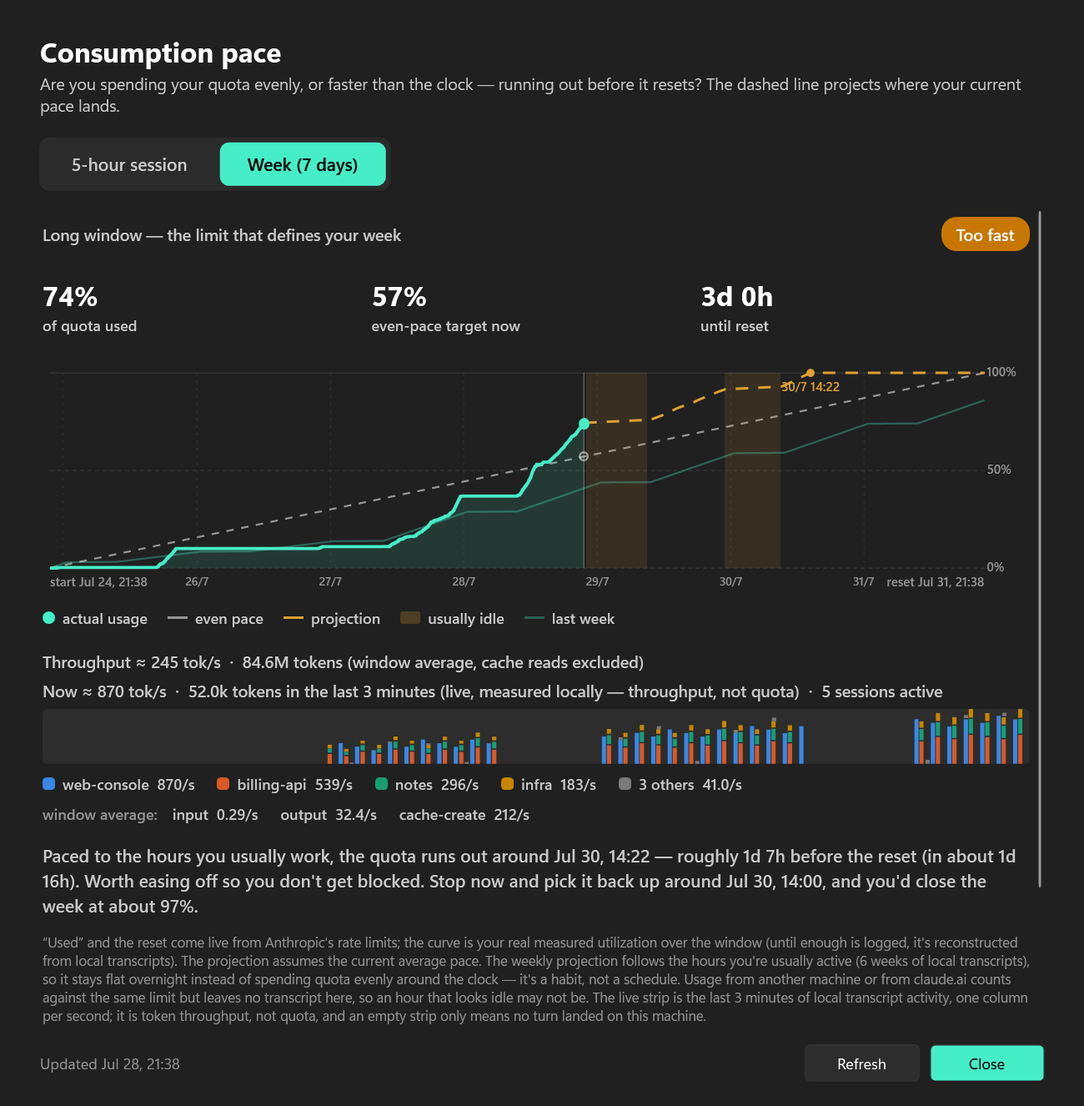
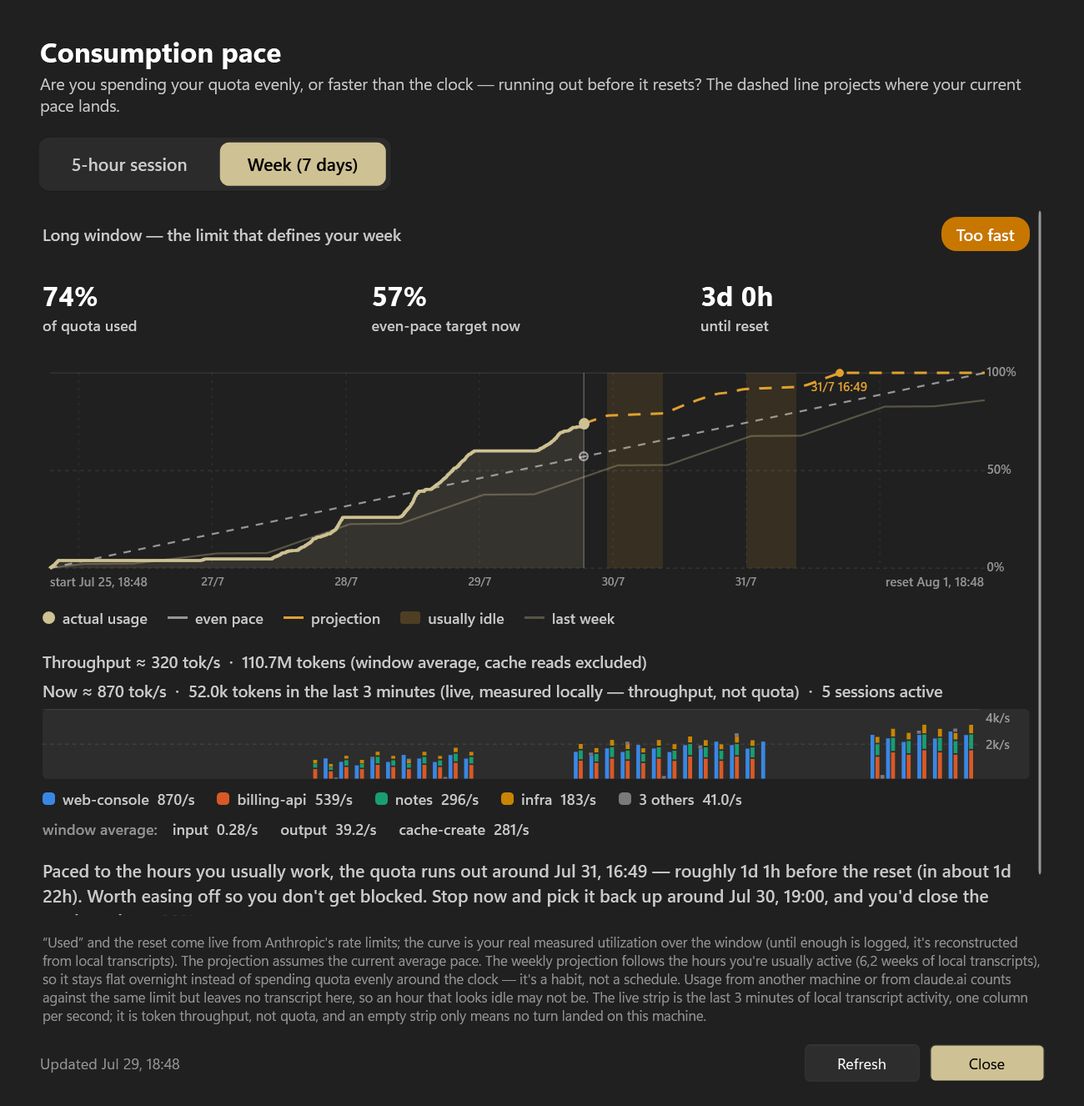
feat: the live strip draws, and scales to, the 3 minutes it shows (T110)
- This commit enhances the LiveStrip to accurately represent the last three minutes of data, ensuring that the height of each column corresponds to the actual usage during that time frame.
- The scaling now reflects the peak usage of the visible data, providing a more meaningful representation rather than relying on the tallest bucket in the entire feed.
- A new axis is introduced, with clear labels indicating the maximum usage in tokens per second, improving the readability and interpretability of the data displayed.
- Tooltips are added to inform users what the full height of a column represents, enhancing user interaction and understanding of the data.
- The strip's design is adjusted to accommodate these changes, including an increase in height to ensure proper spacing for axis labels and improved visual clarity.

diff --git a/StatisticsWindow.xaml b/StatisticsWindow.xaml
@@ -202,7 +202,9 @@
                                    Foreground="{DynamicResource TextFillColorSecondaryBrush}" />
                         <TextBlock x:Name="LiveHeadS" Margin="0,6,0,0" FontSize="13"
                                    Foreground="{DynamicResource TextFillColorSecondaryBrush}" />
-                        <Border x:Name="LiveStripS" Height="44" Margin="0,6,0,0" CornerRadius="4" ClipToBounds="True"
+                        <!-- Taller than the 44px it shipped at: the axis marks its ceiling and its half
+                             (T110), and two 10px labels need the room to stay out of each other. -->
+                        <Border x:Name="LiveStripS" Height="56" Margin="0,6,0,0" CornerRadius="4" ClipToBounds="True"
                                 Background="{DynamicResource SubtleFillColorSecondaryBrush}" />
                         <!-- Describes the strip, so it sits directly under it. Only one coloured
                              legend is ever on screen: when this one has swatches, the window-average
@@ -290,7 +292,7 @@
                                    Foreground="{DynamicResource TextFillColorSecondaryBrush}" />
                         <TextBlock x:Name="LiveHeadW" Margin="0,6,0,0" FontSize="13"
                                    Foreground="{DynamicResource TextFillColorSecondaryBrush}" />
-                        <Border x:Name="LiveStripW" Height="44" Margin="0,6,0,0" CornerRadius="4" ClipToBounds="True"
+                        <Border x:Name="LiveStripW" Height="56" Margin="0,6,0,0" CornerRadius="4" ClipToBounds="True"
                                 Background="{DynamicResource SubtleFillColorSecondaryBrush}" />
                         <StackPanel x:Name="LiveLegendW" Orientation="Horizontal" Margin="0,8,0,0" />
                         <StackPanel x:Name="TpsLegendW" Orientation="Horizontal" Margin="0,8,0,0" />

diff --git a/docs/index.html b/docs/index.html
@@ -449,7 +449,7 @@
       <div class="card feat reveal">
         <div class="ico">📉</div>
         <h3>Live 3-minute strip</h3>
-        <p>One column per second, split input / output / cache-create. It scrolls because the axis is <b>time</b> — the motion is the data, not a spinner. Idle goes flat, and it only repaints while the window is on screen.</p>
+        <p>One column per second, split input / output / cache-create, scaled to the busiest second on screen with that ceiling ruled and labelled in <b>tok/s</b>. It scrolls because the axis is <b>time</b> — the motion is the data, not a spinner. Idle goes flat, and it only repaints while the window is on screen.</p>
       </div>
       <div class="card feat reveal">
         <div class="ico">🗂</div>

diff --git a/LiveStrip.cs b/LiveStrip.cs
@@ -32,6 +32,15 @@ namespace ClaudeTray;
 /// per-second buckets shift), and a single <see cref="TranslateTransform"/> is animated from one
 /// column-width to zero over that second. The rebuild's one-column jump and the slide cancel exactly,
 /// so the strip scrolls continuously while the app draws at 1 Hz.</para>
+///
+/// <para><b>The height means something (T110).</b> A column used to be tall only <em>relative to
+/// whatever the tallest bucket in the feed happened to be</em> — and the feed is longer than the strip
+/// (<see cref="LiveRate.HistorySeconds"/> vs <see cref="Seconds"/>), so the scale could be set by a
+/// burst scrolled off the plot, flattening everything on screen to a few pixels. Two things fix that:
+/// the strip draws (and scales to) the <b>newest</b> <see cref="Seconds"/> buckets, so the tallest
+/// thing visible is what full height means; and full height is a round number, ruled across the plot
+/// and labelled in tok/s in a right-hand gutter, the way Task Manager labels its graphs. The ceiling
+/// still rises instantly and decays slowly, so it re-scales visibly rather than flapping.</para>
 /// </summary>
 internal sealed class LiveStrip
 {
@@ -41,6 +50,24 @@ internal sealed class LiveStrip
     /// <summary>Gap between columns, in device-independent pixels. Zero below a column width where
     /// the gap would eat the bar.</summary>
     private const double Gap = 1;
+
+    /// <summary>Width reserved at the right of the host for the axis labels. Inside the strip rather
+    /// than beside it: the labels sit on the same plate the bars stand on, which costs no layout row
+    /// (§V.9's one constraint) and — unlike a label floated over the plot — never covers a column.</summary>
+    private const double Gutter = 40;
+
+    /// <summary>Below this host width the axis is dropped: a gutter that ate a fifth of the plot would
+    /// cost more data than its labels explain.</summary>
+    private const double AxisMinWidth = 220;
+
+    /// <summary>Where the axis is ruled, as a fraction of the ceiling — the ceiling itself and its
+    /// half. Two lines are enough to read a bar off and few enough to stay background.</summary>
+    private static readonly double[] Marks = { 1.0, 0.5 };
+
+    /// <summary>Steps a ceiling is allowed to land on, per decade. Fine enough that rounding up costs
+    /// at most a third of the bar height, coarse enough that every label is a number a person reads
+    /// without decoding it.</summary>
+    private static readonly double[] NiceSteps = { 1, 1.5, 2, 2.5, 3, 4, 5, 6, 8, 10 };
 
     /// <summary>Categorical hues for the per-project stack (T100), in fixed order — slot 4 is the
     /// ceiling and a fifth series folds into <see cref="Others"/> rather than inventing a hue.
@@ -60,22 +87,64 @@ internal sealed class LiveStrip
         => dark ? Color.FromRgb(0x7A, 0x7A, 0x7A) : Color.FromRgb(0x8A, 0x8A, 0x8A);
 
     private readonly Border _host;
+    private readonly Grid _root = new();
+    private readonly Grid _plot = new() { ClipToBounds = true };   // the columns' own clip: the slide
+    private readonly Canvas _rules = new();                        // moves geometry past both edges
     private readonly Canvas _canvas = new();
+    private readonly Canvas _gutter = new();
     private readonly TranslateTransform _slide = new();
+    private readonly Func<double, string> _tick;
+    private readonly Func<double, string> _tip;
+    private readonly Line[] _lines;
+    private readonly TextBlock[] _labels;
     private Path[] _layers;
 
     // Vertical scale, in tokens for a full-height column. Rises immediately to fit a new peak and
     // decays slowly, so the strip re-scales visibly rather than jumping every second — and so a
     // quiet minute after a burst doesn't blow up the remaining noise to full height.
     private double _scale;
+    // The same scale rounded up to a readable step: what full height *says* it means. Kept separate
+    // because the decay has to stay smooth while the label may only ever be a round number.
+    private double _ceiling;
     private bool _flat = true;
 
-    public LiveStrip(Border host, bool dark)
+    /// <param name="tick">Formats an axis value (tokens in one second) for the gutter — the caller owns
+    /// the app's number formatting and its localized "/s".</param>
+    /// <param name="tip">Formats the hover text explaining what full height means, from the ceiling.</param>
+    public LiveStrip(Border host, bool dark, Func<double, string> tick, Func<double, string> tip)
     {
         _host = host;
+        _tick = tick;
+        _tip = tip;
+
+        _root.ColumnDefinitions.Add(new ColumnDefinition { Width = new GridLength(1, GridUnitType.Star) });
+        _root.ColumnDefinitions.Add(new ColumnDefinition { Width = new GridLength(Gutter) });
+        Grid.SetColumn(_plot, 0);
+        Grid.SetColumn(_gutter, 1);
+        _plot.Children.Add(_rules);      // behind the bars: a rule is a reference, not a series
+        _plot.Children.Add(_canvas);
+        _root.Children.Add(_plot);
+        _root.Children.Add(_gutter);
         _canvas.RenderTransform = _slide;
-        _canvas.IsHitTestVisible = false;
-        _host.Child = _canvas;
+        // The host keeps the hover, so its tooltip covers the whole strip rather than only the bars.
+        _root.IsHitTestVisible = false;
+        _host.Child = _root;
+
+        _lines = new Line[Marks.Length];
+        _labels = new TextBlock[Marks.Length];
+        for (int i = 0; i < Marks.Length; i++)
+        {
+            // Resource *references*, not resolved brushes: the strip is built once and outlives a
+            // light/dark switch, which a brush read at construction would not follow.
+            var line = new Line { StrokeThickness = 1, SnapsToDevicePixels = true };
+            if (Marks[i] < 1) line.StrokeDashArray = new DoubleCollection { 3, 3 };
+            line.SetResourceReference(Shape.StrokeProperty, "DividerStrokeColorDefaultBrush");
+            var label = new TextBlock { FontSize = 10 };
+            label.SetResourceReference(TextBlock.ForegroundProperty, "TextFillColorTertiaryBrush");
+            _rules.Children.Add(_lines[i] = line);
+            _gutter.Children.Add(_labels[i] = label);
+        }
+
         _layers = Array.Empty<Path>();
         SetSeries(Colors(dark));
     }
@@ -121,14 +190,24 @@ internal sealed class LiveStrip
         SetSeries(colors);
 
         double w = _host.ActualWidth, h = _host.ActualHeight;
-        if (w <= 0 || h <= 0 || series.Length == 0) return;
+        if (w <= 0 || h <= 0 || series.Length == 0 || series[0].Length == 0) return;
 
-        int n = series[0].Length;
+        double gutter = w >= AxisMinWidth ? Gutter : 0;
+        if (_root.ColumnDefinitions[1].Width.Value != gutter)
+            _root.ColumnDefinitions[1].Width = new GridLength(gutter);
+        double pw = w - gutter;                      // the plot: everything left of the labels
+
+        // The feed carries more history than the strip shows, and the *newest* end is the one this row
+        // is about — so both the geometry and the scale below read backwards from the last bucket. (An
+        // index-0 walk drew the oldest three minutes and clipped the rest away, then scaled what was
+        // left to a peak that had already scrolled off.)
+        int len = series[0].Length;
+        int visible = Math.Min(Seconds, len);
         long peak = 0;
-        for (int i = 0; i < n; i++)
+        for (int k = 0; k < visible; k++)
         {
             long v = 0;
-            foreach (long[] s in series) v += s[i];
+            foreach (long[] s in series) v += s[len - 1 - k];
             if (v > peak) peak = v;
         }
 
@@ -140,32 +219,42 @@ internal sealed class LiveStrip
             foreach (Path p in _layers) p.Data = null;
             _slide.BeginAnimation(TranslateTransform.XProperty, null);
             _slide.X = 0;
-            _scale = 0;
+            _scale = _ceiling = 0;
+            _host.ToolTip = null;
+            LayoutAxis(pw, h, gutter);               // no data, no axis: a scale nothing is drawn against
             _flat = true;
             return;
         }
         _flat = false;
 
         _scale = peak > _scale ? peak : Math.Max(peak, _scale * 0.94);
+        double ceiling = NiceCeiling(_scale);
+        if (ceiling != _ceiling)
+        {
+            _ceiling = ceiling;
+            _host.ToolTip = _tip(ceiling);           // only on a change: a live tooltip must not flicker
+        }
 
-        // One extra column so the incoming one starts fully off the right edge.
-        double colW = w / Seconds;
+        double colW = pw / Seconds;
         double barW = Math.Max(0.5, colW - (colW > 2.5 ? Gap : 0));
+        // One extra column, laid out past the left edge, so the slide always has something to bring in.
+        int drawn = Math.Min(Seconds + 1, len);
 
         var geo = new StreamGeometry[_layers.Length];
         var ctx = new StreamGeometryContext[_layers.Length];
         for (int i = 0; i < geo.Length; i++) { geo[i] = new StreamGeometry(); ctx[i] = geo[i].Open(); }
 
-        for (int i = 0; i < n; i++)
+        for (int k = 0; k < drawn; k++)
         {
-            double x = i * colW;
+            int i = len - 1 - k;                     // newest column at the right edge
+            double x = pw - (k + 1) * colW;
             double y = h;                            // stack upward from the baseline
             bool first = true;
             for (int L = 0; L < series.Length; L++)
             {
                 long v = series[L][i];
                 if (v <= 0) continue;
-                double seg = v / _scale * h;
+                double seg = v / _ceiling * h;
                 // A non-zero second must be visible: a single small turn is information, and rounding
                 // it to nothing would say "idle" when something did happen.
                 if (seg < 1) seg = 1;
@@ -186,6 +275,8 @@ internal sealed class LiveStrip
             _layers[i].Data = geo[i];
         }
 
+        LayoutAxis(pw, h, gutter);
+
         if (animate)
         {
             // Linear, exactly one second: the slide has to match the clock it represents, or the
@@ -198,6 +289,43 @@ internal sealed class LiveStrip
             _slide.BeginAnimation(TranslateTransform.XProperty, null);
             _slide.X = 0;
         }
+    }
+
+    // The axis: one faint rule per mark across the plot, its value in the gutter. It lives outside the
+    // sliding layer on purpose — a number attached to something that moves reads as data, not as scale.
+    private void LayoutAxis(double pw, double h, double gutter)
+    {
+        for (int i = 0; i < Marks.Length; i++)
+        {
+            // A rule is only drawn where its label has room: crowding two 10px labels into 20px of
+            // strip would make the axis the noisiest thing in a row that is mostly 3px bars.
+            bool show = gutter > 0 && _ceiling > 0 && pw > 0 &&
+                        (i == 0 || h * (Marks[i - 1] - Marks[i]) >= 14);
+            _lines[i].Visibility = _labels[i].Visibility = show ? Visibility.Visible : Visibility.Collapsed;
+            if (!show) continue;
+
+            double y = Math.Round(h - Marks[i] * h) + 0.5;
+            _lines[i].X1 = 0;
+            _lines[i].X2 = pw;
+            _lines[i].Y1 = _lines[i].Y2 = y;
+
+            _labels[i].Text = _tick(_ceiling * Marks[i]);
+            Canvas.SetLeft(_labels[i], 5);
+            Canvas.SetTop(_labels[i], Math.Clamp(y - 7, 0, Math.Max(0, h - 14)));
+        }
+    }
+
+    /// <summary>The next readable step at or above <paramref name="peak"/> — what full height means.
+    /// Rounding up costs bar height (at most a third), and buys a ceiling that can be *read*: a strip
+    /// scaled to exactly its peak has a label like "23,481/s", which is a measurement of one bar rather
+    /// than a scale for all of them.</summary>
+    private static double NiceCeiling(double peak)
+    {
+        if (peak <= 0) return 0;
+        double mag = Math.Pow(10, Math.Floor(Math.Log10(peak)));
+        foreach (double s in NiceSteps)
+            if (peak <= s * mag * 1.000001) return s * mag;
+        return 10 * mag;
     }
 
     /// <summary>Stop any running animation and forget the scale — used when the window is hidden, so

diff --git a/StatisticsWindow.xaml.cs b/StatisticsWindow.xaml.cs
@@ -430,8 +430,8 @@ internal partial class StatisticsWindow : Window
     {
         if (_stripS is not null) return;
         bool dark = IsDarkTheme();
-        _stripS = new LiveStrip(LiveStripS, dark);
-        _stripW = new LiveStrip(LiveStripW, dark);
+        _stripS = new LiveStrip(LiveStripS, dark, AxisTick, ScaleTip);
+        _stripW = new LiveStrip(LiveStripW, dark, AxisTick, ScaleTip);
 
         // The strip is drawn in device pixels against its host's width, so a resize (and the very
         // first layout pass, where the width is still zero) has to redraw it. Static, not animated:
@@ -1056,6 +1056,18 @@ internal partial class StatisticsWindow : Window
         tps >= 100 ? tps.ToString("#,##0", Fmt)
         : tps >= 10 ? tps.ToString("0.0", Fmt)
         : tps.ToString("0.00", Fmt);
+
+    // The live strip's axis (T110): a mark's value, and the hover that says what full height means.
+    // "20k/s" rather than Big()'s "20.0k" — a scale label is read at a glance, and a trailing .0 on a
+    // round ceiling is noise. Tokens in one second *are* tokens/second, so the unit is honest.
+    private static string AxisTick(double tokens) => L.T("stats.live.axis", Tick(tokens));
+
+    private static string ScaleTip(double ceiling) => L.T("stats.live.scaleTip", Tick(ceiling));
+
+    private static string Tick(double n) =>
+        n >= 1_000_000 ? (n / 1e6).ToString("0.##", Fmt) + "M"
+        : n >= 1_000 ? (n / 1e3).ToString("0.##", Fmt) + "k"
+        : n.ToString("0.##", Fmt);
 
     // Compact token count: 3.1M / 42k / 517.
     private static string Big(long n) =>

diff --git a/CHANGELOG.md b/CHANGELOG.md
@@ -159,6 +159,8 @@
 - **T99** — The throughput row moves (`LiveStrip.cs`). The static stacked mix bar under each chart becomes a **strip of the last three minutes** — one column per second, entering right and leaving left, keeping the input/output/cache-create split — with *"Now ≈ 870 tok/s · 52.0k tokens in the last 3 minutes"* above it. The window average, the charts, the verdict chip and the legend are untouched: this is a row, not a re-timing of the pace report, and the two numbers are deliberately adjacent because they answer different questions. Motion at 1 Hz without per-frame work: the geometry is rebuilt once a second (three `StreamGeometry` layers, one per token type) and a single `TranslateTransform` is animated from one column-width to zero over that second, so the rebuild's one-column jump and the slide cancel exactly and the strip scrolls continuously. Every consequence of "the motion is the data" is enforced rather than assumed — **nothing running ⇒ nothing moves** (an empty strip is cleared once and then left alone; no spinner, no breathing pulse, which would imply activity during idleness), **hidden ⇒ stopped** (both `IsVisibleChanged` and `StateChanged`, since a minimized WPF window still reports `IsVisible`), and the tail is owned by the window so a closed Statistics window watches nothing. A non-zero second is floored to one pixel — a single small turn is information and must not round to "idle". The method note gains a sentence: an empty strip means no turn landed *on this machine*, never that nothing is running. Five new keys across all five `lang/*.json`; the window grew 60px for the taller row. Verified by screenshot in English and pt-BR, against the real tail and against `--stats live` / `--capture-stats … live`, which feed a deterministic synthetic three minutes so the published image is reproducible; the published `docs/statistics-*.png` were regenerated.
 - **T100** — Which project is burning it. The strip stacks **per project** and the live row says how many sessions are active, which across five repos is the question actually being asked — not *how fast* but *where*. Attribution is free: the transcript path already names the project. Deliberately **adaptive** — with two or more projects generating, the stack is per project; with one there is nothing to attribute and the by-type mix stays, because folding a single-project strip to one flat colour would lose the input/output/cache-create split for nothing. A session counts as active on a **turn in the last 2 minutes**, not on file presence, or every terminal left open all week would inflate the count. Palette run through the data-viz validator rather than eyeballed: four categorical hues in fixed order (blue/orange/aqua/yellow) plus an achromatic residual, validated as a stack against both themes' surfaces — worst adjacent CVD ΔE 9.1 light / 8.4 dark, worst normal-vision ΔE 20.8 / 16.9, all ≥3:1 contrast in dark. Past four projects the rest fold into one grey "+N others"; a fifth invented hue is never the answer. Every series is direct-labelled with its own rate, and while the strip is by-project the window-average legend **drops its swatches** for a plain "window average:" caption — otherwise the same three hues would mean token types in one legend and projects in the other. Two bugs found by looking at the output rather than at the code: naming a project by `GetFileName(cwd)` is wrong because `cwd` is the working directory *of that turn*, so one `cd docs/_preview` inside a session renamed the project to "_preview" — and the slug can't be split back into a name either (it encodes separators and literal dashes identically, turning `…-shio-2026-3` into "3"), so the name is now recovered by walking the cwd up to the ancestor whose encoding equals the slug. The per-project rates sum to the headline, because the age-weighted kernel is linear — verified live at 141+132=273 tok/s. Nine new keys across all five `lang/*.json`; `--live` now prints the split and the active-session count.
 
+- **T110** — The strip's height means something. Two defects behind one symptom, reported from the field as *"the bars are tiny and sometimes there are numbers"*: the row walked its series from **index 0** of a feed that keeps 300 seconds while the strip is 180 columns wide (`LiveRate.HistorySeconds` > `LiveStrip.Seconds`), so it drew the *oldest* three minutes and clipped the newest two minutes off the right edge — and it then scaled what was left to the tallest bucket in the **whole** feed, which could be a burst that had already scrolled away, flattening everything on screen onto the 1px floor. It now walks backwards from the newest bucket (one extra column laid out past the left edge, so the slide still has something to bring in) and takes its peak from exactly what it draws. With that fixed the scale is also *stated*: full height is the visible peak rounded up to a readable step (1 / 1.5 / 2 / 2.5 / 3 / 4 / 5 / 6 / 8 per decade, so rounding up costs at most a third of the bar height), ruled across the plot at the ceiling and at its half and labelled in tok/s in a 40px right-hand gutter — Task Manager's treatment, and inside the strip so it costs no layout row (§V.9's one constraint). The labels sit on the plate rather than floated over the plot, so they never cover a column, and the rules live outside the sliding layer, because a number attached to something that moves reads as data rather than as scale. The gutter is dropped below 220px of width, the half-mark is dropped when its label would crowd the ceiling's, and the whole axis disappears while the strip is flat — a scale with nothing drawn against it claims a precision that isn't there. Hover says what full height means; the strip grew 44→56px so two 10px labels have room. Resource *references* rather than resolved brushes for the rules and labels, since the strip is built once and outlives a light/dark switch. Two keys across all five `lang/*.json`. Verified against the deterministic `--stats live` fixture and against the real tail — which is where the scale fix earns itself: one 240k-token second (a large cache write) now reads as `250k/s` instead of as an unexplained wall of 1px bars. Published `docs/statistics-*.png` regenerated.
+
 ## Block L — Scan resilience
 
 - **T109** — `SafeWalk.cs`: one unreadable directory can no longer blank the app. Reported from the field as *"couldn't build the report: the path cannot be traversed because it contains an untrusted mount point"* — a `memory` junction inside `~/.claude/projects` that Windows' Redirection Guard refuses to traverse, which aborted the framework's `AllDirectories` enumeration and with it the **entire** Statistics window: no charts, no numbers, just the error. The same single point of failure sat under every local scan (`UsageReport.ScanTokens`, `UsageInsights`, `ActivityProfile`, `ContextUsage`, `TranscriptTail` and the recursive `ContextScanner` helpers), so a denied ACL, a session folder deleted mid-sweep or a path past MAX_PATH anywhere under `projects/` cost the user everything downstream of it. The walk is now per directory, so a failure is scoped to the subtree that caused it. Three things the naive version gets wrong and this one doesn't: entries are **materialized** (`GetFiles`, not `EnumerateFiles`) — the `try`/`catch` wrappers the codebase already had around lazy enumerables caught *nothing*, because the IO happens later inside the caller's `foreach`; a reparse point is **replaced by the path it names before anything opens it**, which both sidesteps the blocked traversal (opening the real directory is allowed — only going *through* the link is refused) and walks a shared target once instead of once per junction (this machine has three pointing at the same `_turing-shared\memory`); and children come back as `DirectoryInfo`, whose attributes the enumeration already filled in, so detecting those reparse points costs no extra syscall — ~46ms vs ~34ms over 600 transcripts, and a fresh context scan 95ms vs 73ms. Verified against a hostile fixture (a junction plus a directory with read denied by ACL) where the framework walker throws and the walk returns every readable file exactly once, and against the real tree for equivalence: the `--context` report is identical line for line, 969 files across 35 projects, and the Statistics window renders in pt-BR. Depth cap plus a visited set for the junction-pointing-at-its-own-ancestor case. No user-visible strings — the fix is that the existing ones stop appearing.

diff --git a/ROADMAP.md b/ROADMAP.md
@@ -86,10 +86,14 @@
 > it (T102), two costs it introduced (T103, T108), two readings it stops just short of (T104, T107),
 > and one duplicated resolver (T105). Ordered by what a user would notice: T102 first — it is wrong
 > today, everywhere the transcripts are counted — then T104, then the rest.
+>
+> **T110 shipped** out of that pass's first half: the strip now draws — and scales to — the three
+> minutes it claims to show, with its ceiling ruled and labelled in tok/s. It took the *magnitude* half
+> of T104; the per-column hover is still open.
 
 - 📋 **T102** (deps: —) **`ScanTokens` counts one API response several times** — Claude Code writes one `assistant` line per *content block*, each repeating that response's `usage`; T97 found this and de-duplicates on `requestId`, but the older sweep still sums per line. The weekly curve hides it (it is rescaled to the live utilization) yet the *shape* is skewed toward heavy tool use, and `MeasuredActiveHours` and `ActivityProfile` read the same samples. The parser already emits the id. → §V.7
 - 📋 **T103** (deps: T97) **The tail re-enumerates the whole tree every 3s** — 602 transcripts in 17ms today, metadata-only, but it is O(all history) and grows forever while the window is open. Enumerate only directories whose mtime moved, or fall back to watcher-reported paths once the tree passes a size. → §V.8
-- 📋 **T104** (deps: T99) **The strip is a shape with no magnitude** — 44px, no axis, no hover: nothing distinguishes a 2k column from a 200k one, and per-column tooltips are the one interaction a bar form should not ship without. Second, project, tokens — no new row. → §V.9
+- 📋 **T104** (deps: T99, T110) **The strip has no per-column reading** — T110 gave the row a magnitude (a labelled ceiling and its half, scaled to what is actually on screen), which leaves the one interaction a bar form should not ship without: hover a column for its second, its project and its tokens. No new row. → §V.9
 - 💭 **T105** (deps: T100) **One resolver for slug → project path** — T100 recovers a project's real folder by walking the `cwd` up to the ancestor whose encoding matches the slug; `ContextScanner.CwdFromTranscripts` answers the same question separately and less exactly. Two readers of the same lossy encoding is one too many. → §V.10
 - 💭 **T106** (deps: T98) **A turn's tokens land in the second it *finished*** — the transcript timestamp is the write time, so a 40s generation reads as one spike at the end rather than a flow across the 40s it occupied, which is what makes the strip lumpier than the work. The previous turn's timestamp bounds the duration; only worth doing if it can be done without inventing data. → §V.11
 - 💭 **T107** (deps: T98) **Say what the cache re-read is costing** — measured on real traffic: ~30,000 tok/s of cache read against ~150 tok/s of real work, a 200× ratio the app now computes and shows nobody. That number is what a large eager context costs *per turn*, which makes it the missing link between this block and the Context Load Inspector. → §V.12

diff --git a/last-task.md b/last-task.md
@@ -1,6 +1,6 @@
-# Last task number — `T109` · next block letter — `M`
+# Last task number — `T110` · next block letter — `M`
 
-> **Single source of truth for the next free task number.** The next new task is `T110`; after
+> **Single source of truth for the next free task number.** The next new task is `T111`; after
 > assigning it, bump the number above and append a log line below.
 >
 > **Next block letter — `M`** (Block **L** = Scan resilience — no single unreadable directory under
@@ -33,6 +33,8 @@
   about the weekly **projection** (where the quota lands), K is about **instantaneous** throughput
   (what is running now, and in which project) on a clock that is local rather than the API's. It opens
   against the same Statistics window, so it carries no dependency on J's open tasks.
+- **T110** (2026-07-29) stays in Block **K** rather than opening M: it is the live strip's own scale,
+  and it took the magnitude half of K's own T104, which remains open for the per-column hover.
 - Docs live at the **repo root** (`ROADMAP.md`, `CHANGELOG.md`, `IMPROVEMENTS.md`, `STRATEGY.md`,
   `last-task.md`), not under `docs/` — `docs/` is the published GitHub Pages site.
 
@@ -74,3 +76,4 @@ here. This file is a terse index, not a memory.
 - **T100 SHIPPED** (Block K — per-project attribution in the live strip) — 2026-07-28.
 - **T101 DROPPED** (Block K — tray-icon live hint; now a binding non-goal) — 2026-07-28.
 - **T109 SHIPPED** (Block L — SafeWalk: an unreadable directory can't fail a whole scan) — 2026-07-29.
+- **T110 SHIPPED** (Block K — the strip draws, and scales to, the 3 minutes it shows) — 2026-07-29.

diff --git a/IMPROVEMENTS.md b/IMPROVEMENTS.md
@@ -282,16 +282,15 @@ whose mtime moved (one stat per project rather than per transcript), or trust th
 paths once the tree passes some size, keeping the full sweep as an occasional reconciliation. Either
 way the floor sweep must stay whole often enough that a lost watcher cannot silently strand a file.
 
-### §V.9 A shape with no magnitude (T104)
+### §V.9 A column with no reading (T104)
 
-The strip is 44px tall with no axis and an auto-scaling maximum, so a column's height means "tall
-relative to the last three minutes" and nothing else — 2k and 200k tokens can draw the same bar a
-minute apart. For a *flow* that is mostly fine, which is why it shipped that way, but it leaves the
-one interaction a bar form should never ship without: **per-column hover** giving the second, the
-project and the tokens.
+A column's *height* now means something — T110 rules and labels the ceiling, and scales it to what is
+actually on screen — but the strip still answers only in shapes. Which second is that spike, which
+project was it, how many tokens: none of the three is available anywhere, and **per-column hover** is
+the one interaction a bar form should never ship without.
 
 The constraint is that this must not add a row. The strip is already three lines deep in a pane that
-scrolls; the answer is a tooltip, not a legend entry and not an axis.
+scrolls; the answer is a tooltip, not a legend entry.
 
 ### §V.10 Two readers of one lossy encoding (T105)
 

diff --git a/README.md b/README.md
@@ -116,6 +116,11 @@ week, so the number barely moves, and that is correct: it answers *what did this
 it, **Now ≈ N tok/s** answers *what is happening this minute*, over a trailing 3-minute strip with
 one column per second, split input / output / cache-create.
 
+The strip is scaled to **what's on screen**, and it says so: full height is the busiest second of
+those three minutes, rounded up to a round number and labelled on the right — `4k/s`, with half of it
+on the dashed line — so a column is a quantity you can read, not just a silhouette. Hover it and it
+tells you what full height stands for.
+
 The strip scrolls because the axis it scrolls along **is time** — the motion is the data, not a
 spinner. When nothing is generating it goes flat and stops repainting, and it only runs at all while
 the window is actually on screen. It is read from your local transcripts as they are written, with
